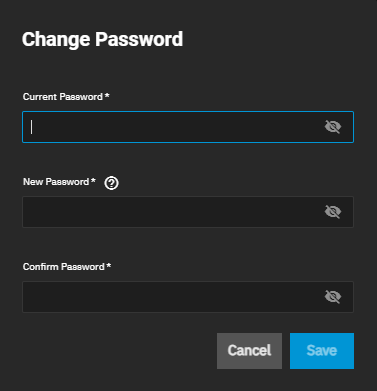
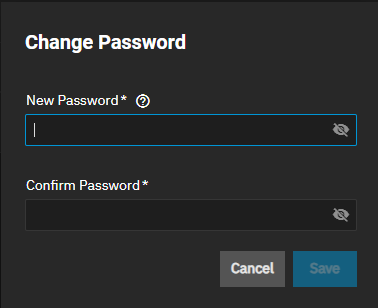
PD-1574 Add New Screenshots and Update Content
This PR updates the TopToolbar.md and AdminRoles.md articles with new screenshots and content for changing the admin user password dialog.

diff --git a/static/includes/ChangeLoggedInUserPassword.md b/static/includes/ChangeLoggedInUserPassword.md
@@ -2,7 +2,14 @@
 
 Click on the **Change Password** <span class="material-icons">dialpad</span> icon button to display the change password dialog where you can enter a new password for the currently logged-in user.
 
-{{< trueimage src="/images/SCALE/Dashboard/ChangeLoggedInUserPassword.png" alt="Change Password" id="Change Password" >}}
+The truenas_admin user and whatever new admin user created with full control permissions see the **Change Password** dialog with the **New Password** and **Confirm Password** fields. These users do not need to enter their current password to change the password.
+
+{{< trueimage src="/images/SCALE/Dashboard/ChangeLoggedInUserPassword.png" alt="Change Password Full Control Admin" id="Change Password Full Control Admin" >}}
+
+The Sharing Admin and Readonly Admin users see the **Change Password** dialog with the **Current Password**, **New Password**, and **Confirm Password** fields.
+These users must enter the current password to validate the user account before changing the user password.
+
+{{< trueimage src="/images/SCALE/Dashboard/ChangeLoggedInUserPasswordShare&ReadonlyAdmin.png" alt="Change Password Share and Readonly Admins" id="Change Password Share and Readonly Admins" >}}
 
 Click on the <span class="material-icons">visibility_off</span> icon to display entered passwords.
 To stop displaying the password, click on the <span class="material-icons">visibility</span> icon.

diff --git a/content/SCALE/SCALETutorials/Credentials/AdminRoles.md b/content/SCALE/SCALETutorials/Credentials/AdminRoles.md
@@ -30,6 +30,11 @@ SCALE includes three predefined admin user account levels:
 
 For more information on the different administrator scenarios users can encounter, read [Logging Into SCALE the First Time]({{< relref "FirstTimeLogin.md" >}}).
 
+## Changing Administrator Account Passwords
+Adminstrator passwords can be changed on the **Edit User** screen, or if currently logged in, by clicking the **Settings** <span class="material-icons">account_circle</span> icon on the top toolbar and clicking **Change Password**.
+
+{{< include file="/static/includes/ChangeLoggedInUserPassword.md" >}}
+
 ## Configuring Administrative Privileges
 
 [Create a new administrator]({{< relref "managelocalusersscale.md #creating-an-administrator-user-account" >}}) account or select an existing account to grant administrative privileges.
